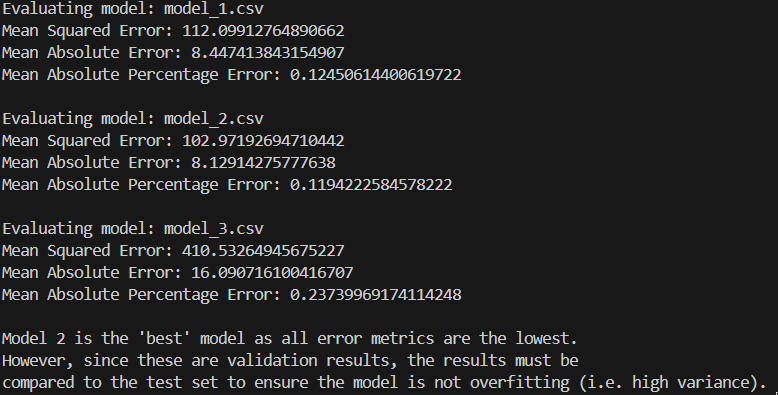
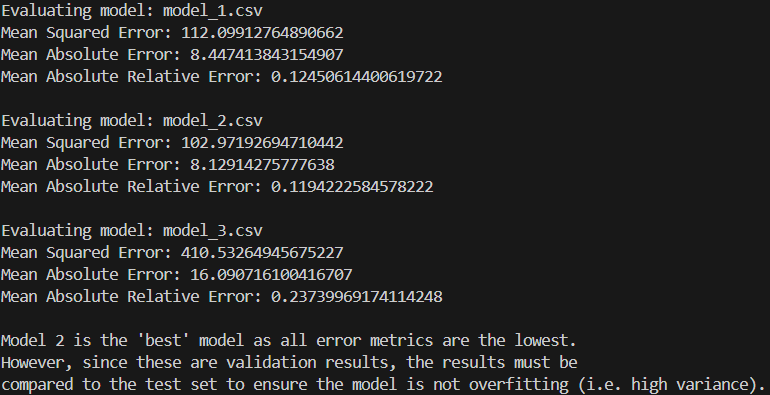
Update README.md

diff --git a/SVCR/src/main/java/com/ontariotechu/sofe3980U/App.java b/SVCR/src/main/java/com/ontariotechu/sofe3980U/App.java
@@ -47,7 +47,7 @@ public class App
 
 			System.out.println("Mean Squared Error: " + mse);
 			System.out.println("Mean Absolute Error: " + mae);
-			System.out.println("Mean Absolute Percentage Error: " + mape);
+			System.out.println("Mean Absolute Relative Error: " + mape);
 			System.out.println();
 
 			// pd.head

diff --git a/README.md b/README.md
@@ -2,20 +2,9 @@
 # Introduction
 Machine Learning (ML) models are pivotal in modern software systems, necessitating rigorous testing to ensure reliability and performance. This lab focuses on evaluating ML models across three problem types: single-variable continuous regression, binary classification, and multiclass classification. For each, appropriate metrics—such as Mean Squared Error (MSE), Binary Cross-Entropy (BCE), and Cross-Entropy (CE) are implemented to assess accuracy and guide model selection.
 
-# Results
-### Single-variable Continuous Regression
-3 models were compared in this section.  Their results are shown below.\
-![Single-variable Continuous Regression Results](images/t1.png)
-
-### Single-variable Binary Regression
-3 models were compared in this section.  Their results are shown below.\
-![Single-variable Binary Regression Results](images/t2.png)
-
-### Multi-Class Classification
-A single model was evalulated in this section.\
-![Multiclass Classification Results](images/t3.png)
-
 # Discussion
+Typically, accuracy is the only thing that we think about as humans when evaluating how something does in a classification task.  However, accuracy is often not enough to evalulate how well a model estimates the distrubution of a dataset.  
+
 Suppose that our dataset contains 5 points of class A and 5 95 points of class B.  Suppose that the result of the model is that it simply predicts everything as class B no matter the input.
 
 ### Accuracy
@@ -39,3 +28,16 @@ $$Precision_\text{Class A} = \frac{\text{\text{Points that are actually class A}
 
 In the above example, 
 **Precision on class A in the above example would be 0%!**  Technically, since there are no points classified as class A in the above example, percision would be undefined.  However, it is conventionally treated as 0% in these situations.
+
+# Results
+### Single-variable Continuous Regression
+3 models were compared in this section.  Their results are shown below.  Note that MAE, MSE, MARE are just different ways of calculating distances from each datapoint to the predicted function. \
+![Single-variable Continuous Regression Results](images/t1.png)
+
+### Single-variable Binary Regression
+3 models were compared in this section.  Their results are shown below. Think of cross entropy as the suprise in the results that is obtained when estimating the ground truth distrubution using each predicted model. F1 score is just the aggregation between percision and recall.  AUC-ROC is the probability that choosing a random point point of a positive class will be ranked higher than a negative class. \
+![Single-variable Binary Regression Results](images/t2.png)
+
+### Multi-Class Classification
+A single model was evalulated in this section.\
+![Multiclass Classification Results](images/t3.png)
